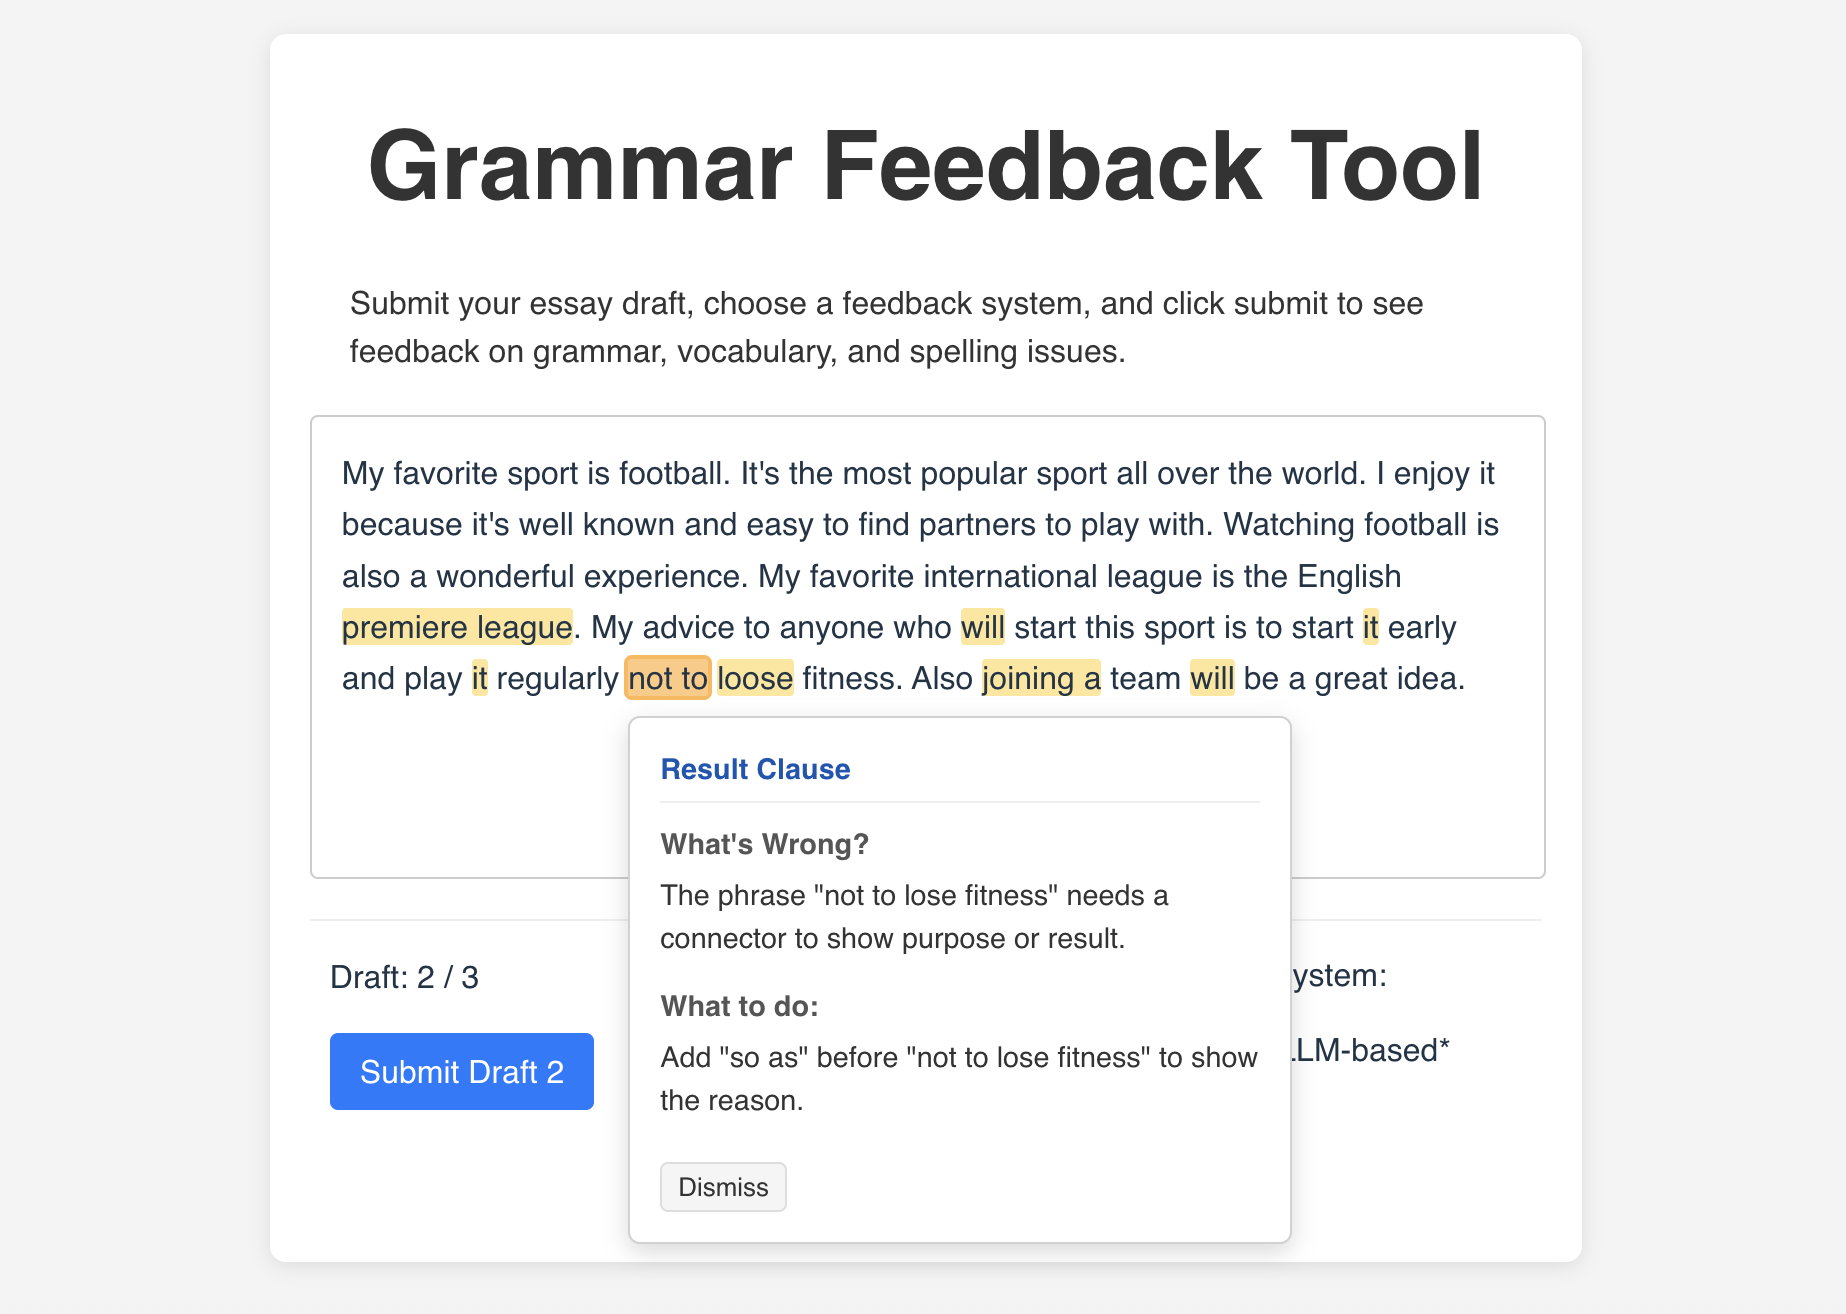
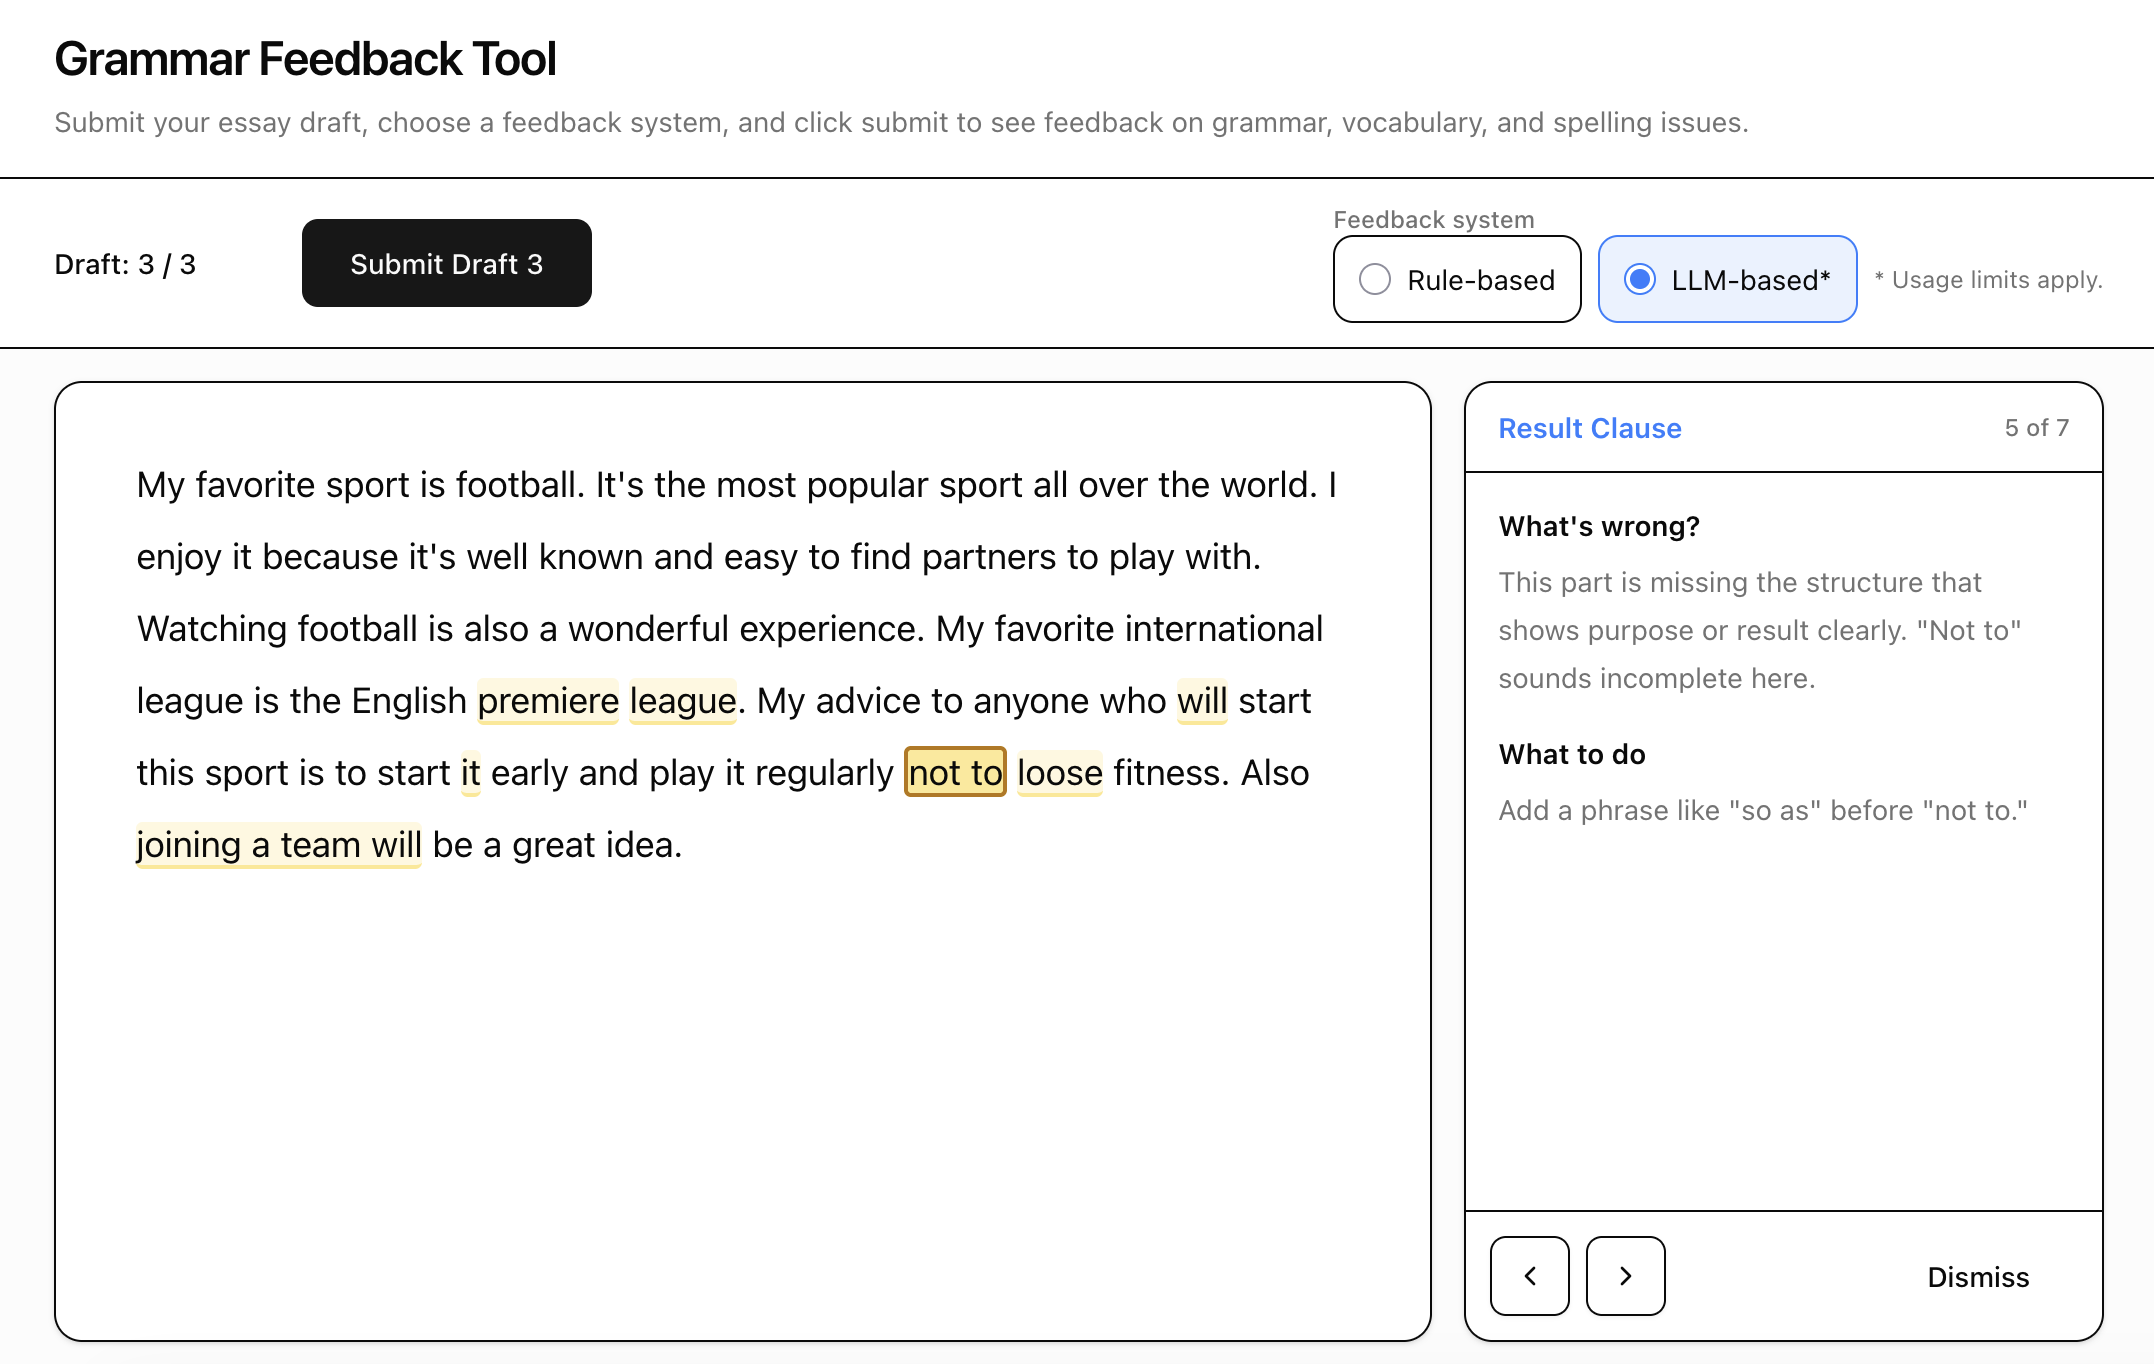
update readme

diff --git a/README.md b/README.md
@@ -1,8 +1,9 @@
 # Grammar Feedback UI
 
-A simple text editor interface with a feedback comment feature.
-
-The system highlights spans of interest and produces feedback "cards" when users click the highlights.
+A Plate-based text editor interface with a feedback comment feature.
+The application highlights text spans returned from a feedback generation API,
+and shows one selected feedback comment at a time. These are displayed in a sidebar on desktop, or a bottom dock on mobile,
+with previous, next, and dismiss controls.
 
 The default back end logic can be handled by `https://github.com/coynestevencharles/grammar_feedback_api`
 
@@ -73,7 +74,8 @@ npm run test:e2e
 
 Testing is done with Vitest, React Testing Library, and Playwright.
 
-The Playwright test uses Chromium to verify the Slate contenteditable. To use this, install that browser once with `npx playwright install chromium`.
+The Playwright test uses Chromium to check the Plate editor and other UI elements.
+To use this, install that browser once with `npx playwright install chromium`.
 
 Coverage and Playwright are intentionally not part of pre-commit: coverage has
 no threshold, and Playwright requires a separately installed browser. Run them
